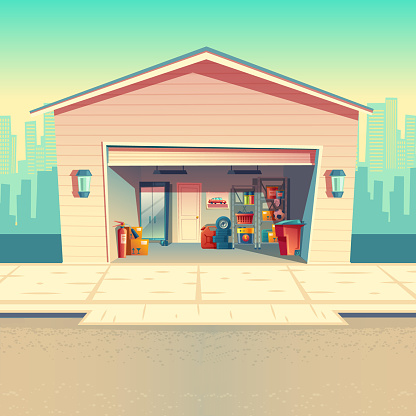
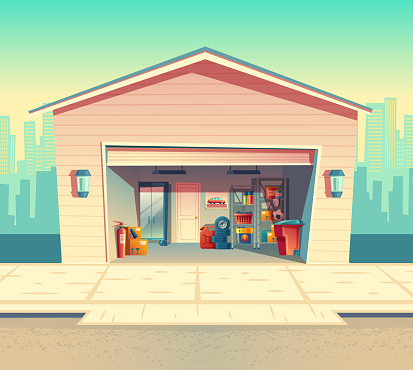
added buy sell trade buttons

diff --git a/client/src/pages/Home.js b/client/src/pages/Home.js
@@ -5,62 +5,154 @@ import garageDoor from "../assets/images/garage-door.png"
 import garageSign from "../assets/images/garage-sale-sign.gif"
 
 const StyledHomeBackground = styled.div`
-  position: fixed;
-  background-image: url(${openGarage});
-  height: 100%;
-  width: 100%;
-  background-size: 126vh;
-  background-position: center;
   display: flex;
-  justify-content: center;
+  flex-direction: column;
   align-items: center;
+  position: absolute;
+  background-image: url(${openGarage});
+  left: 0;
+  right: 0;
+  top: 0;
+  bottom: 0;
+  height: 100%;
+  background-size: 100vh 100%;
+  background-position: center;
   background-repeat: repeat-x;
+  z-index: -1;
 ;`
 
 const GarageDoorDiv = styled.div`
-  position: relative;
+  position: absolute;
   background-image: url(${garageDoor});
-  top: -1%;
-  left: 0.7%;
-  width: 492px;
-  height: 276px;
-  background-size: 492px 276px;
+  background-size: 100% 100%;
+  height: 33vh;
+  width: 52vh;
   background-repeat: no-repeat;
-  -webkit-transition: background-position 1s ease;
-  -moz-transition: background-position 1s ease;
-  -ms-transition: background-position 1s ease;
-  -o-transition: background-position 1s ease;
   transition: background-position 1s ease;
-;`
-
-const CenteredSign = styled.div`
+  margin: 0.5vh 0 0 2vh;
+  z-index: 3;
   display: flex;
-  justify-content: center;
+  // flex-direction: column;
   align-items: center;
 ;`
 
-const GarageSign = styled.div`
-  position: fixed;
-  top: 18%;
+const GarageSign = styled.section`
   background-image: url(${garageSign});
   background-size: 100% 100%;
-  height: 144px;
-  width: 216px;
+  height: 17vh;
+  width: 27vh;
   background-repeat: no-repeat;
+  z-index: 2;
+  margin-top: 21vh;
+;`
+
+const Stylediv = styled.div`
+  background-size: 100% 100%;
+  display: flex;
+  flex-direction: column;
+  align-items: center;
+;`
+
+const Buttondiv = styled.section`
+  // flex-direction: row;
+;`
+
+const RealButtondiv = styled.section`
+  position: relative;
+  // flex-direction: row;
+;`
+
+const Button = styled.button`
+  height: 8vh;
+  width: 16vh;
+  position: relative;
+  font-size: 1.2em;
+  margin: 0.7em;
+  padding: 0.25em 0.5em;
+  border: 2px solid;
+  border-radius: 3px;
   z-index: 1;
+;`
+
+const BuyButton = styled(Button)`
+  color: black;
+  border-color: black;
+  background-color: darkcyan;
+  margin-top: 25%; 
+;`
+
+const SellButton = styled(Button)`
+  color: black;
+  border-color: black;
+  background-color: darkcyan;
+  margin-top: 25%;
+;`
+
+const TradeButton = styled(Button)`
+  color: black;
+  border-color: black;
+  background-color: darkcyan;
+;`
+
+const RealButton = styled.button`
+  height: 8vh;
+  width: 16vh;
+  position: fixed;
+  font-size: 1.2em;
+  margin: 0.7em;
+  padding: 0.25em 0.5em;
+  border: 2px solid;
+  border-radius: 3px;
+  z-index: 1;
+;`
+
+const RealBuyButton = styled(RealButton)`
+  color: black;
+  border-color: black;
+  background-color: darkcyan;
+  margin-top: 25%; 
+;`
+
+const RealSellButton = styled(RealButton)`
+  color: black;
+  border-color: black;
+  background-color: darkcyan;
+  margin-top: 25%;
+;`
+
+const RealTradeButton = styled(RealButton)`
+  color: black;
+  border-color: black;
+  background-color: darkcyan;
 ;`
 
 const Home = () => {
   return (
     <div className="">
-      {/* <CenteredSign> */}
-        <GarageSign/>
-      {/* </CenteredSign> */}
-
       <StyledHomeBackground className="garage">
-        {/* <GarageDoorDiv>
-
-        </GarageDoorDiv> */}
+        <Stylediv>
+          <GarageSign/>
+          <Stylediv>
+            <Buttondiv href="#">
+              <BuyButton href="#">Buy</BuyButton>
+              <SellButton href="#">Sell</SellButton>
+              <Stylediv>
+                <TradeButton href="#">Trade</TradeButton>
+              </Stylediv>
+            </Buttondiv>
+            
+            <RealButtondiv>
+              <BuyButton href="#">Buy</BuyButton>
+              <SellButton href="#">Sell</SellButton>
+              <Stylediv>
+                <TradeButton href="#">Trade</TradeButton>
+              </Stylediv>
+            </RealButtondiv>
+            
+            <GarageDoorDiv>
+            </GarageDoorDiv>
+          </Stylediv>
+        </Stylediv>
       </StyledHomeBackground>
     </div>
   );

diff --git a/client/src/index.css b/client/src/index.css
@@ -82,6 +82,11 @@ a:hover {
 
 header {
   background: var(--primary);
+  position: fixed;
+  z-index: 1;
+  width: 100%;
+  display: flex;
+  justify-content: space-between;
 }
 
 header a {
